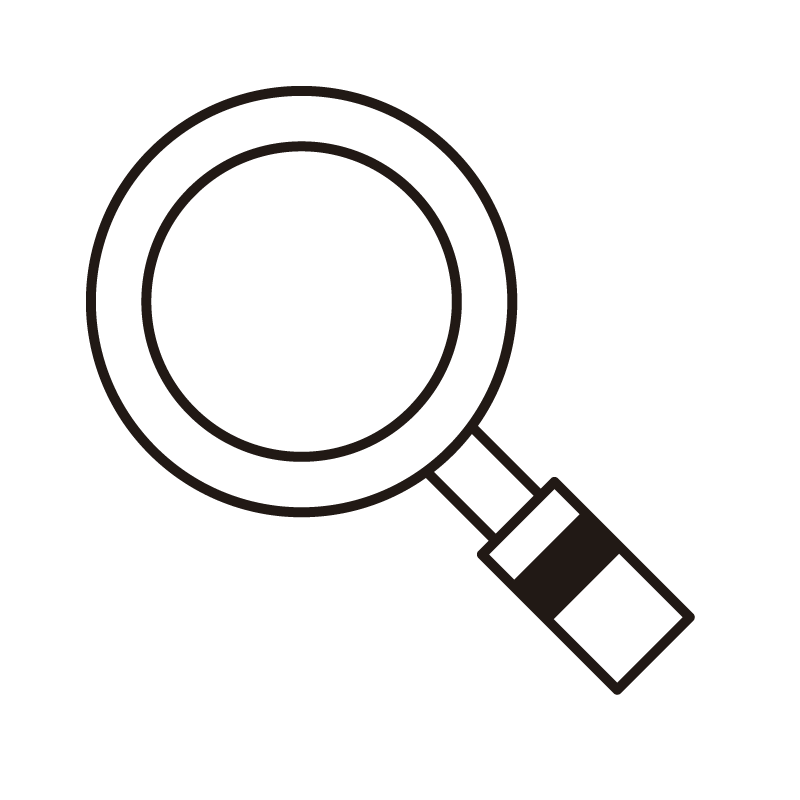
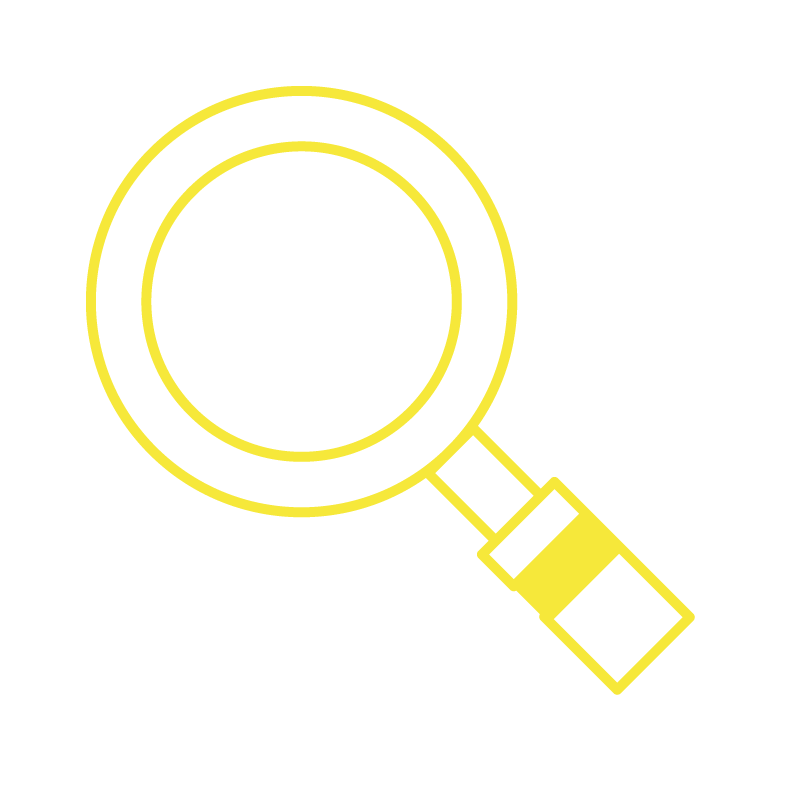
Nuestro Proceso

diff --git a/pages/nuestras-creaciones.html b/pages/nuestras-creaciones.html
@@ -12,7 +12,7 @@
 
 <body>
     <header>
-        <nav class="navbar navbar-expand-lg navbar-dark" style="background-color: rgb(19, 19, 19);">
+        <nav class="navbar navbar-expand-lg navbar-dark">
             <div class="container-fluid">
                 <a class="navbar-brand" href="../index.html">
                     <img src="../images/clara.png" alt="logo de la empresa" width="100">
@@ -51,28 +51,52 @@
     
 <!--portfolio-->
         <span class="cardCreaciones">
-            <div class="card cardCreacion">
-                <img src="../images/tarjetas-ludmi.jpg" class="cardCreacion__img" alt="imagen del proyecto de tarjetas personales">
-                <h3 class="card__title card__contacto--cel">Tarjetas personales</h3>
-                <p class="cardDescription">Lorem ipsum dolor sit, amet consectetur adipisicing elit.</p>
+            <div class="card cardCreacion accordion accordion-flush">
+                <img src="../images/tarjetas-ludmi.jpg" class="cardCreacion__img accordion-item" alt="imagen del proyecto de tarjetas personales">
+                <h3 class="card__title accordion-header" id="flush-headingOne">
+                    <button class="accordion-button collapsed" type="button" data-bs-toggle="collapse" data-bs-target="#flush-collapseOne" aria-expanded="false" aria-controls="flush-collapseOne">
+                    Tarjetas personales
+                    </button>
+                </h3>
+                <div id="flush-collapseOne" class="accordion-collapse collapse" aria-labelledby="flush-headingOne" data-bs-parent="#accordionFlushExample">
+                        <div class="accordion-body">El objetivo de una tarjeta personal es que la gente te recuerde. Con tu tarjeta personal diseñada en Clara-SG, mostrarás a las personas la verdadera esencia de tu emprendimiento o profesión.</div>
+                </div>            
             </div>
 
-            <div class="card cardCreacion">
-                <img src="../images/sorteo.png" class="cardCreacion__img" alt="imagen del proyecto de tarjetas personales">
-                <h3 class="card__title">Placas para redes sociales</h3>
-                <p class="cardDescription">Lorem ipsum dolor sit, amet consectetur adipisicing elit.</p>
+            <div class="card cardCreacion accordion accordion-flush">
+                <img src="../images/sorteo.png" class="cardCreacion__img accordion-item" alt="imagen del proyecto de una placa para redes sociales">
+                <h3 class="card__title accordion-header" id="flush-headingTwo">
+                    <button class="accordion-button collapsed" type="button" data-bs-toggle="collapse" data-bs-target="#flush-collapseTwo" aria-expanded="false" aria-controls="flush-collapseTwo">
+                    Redes sociales
+                    </button>
+                </h3>
+                <div id="flush-collapseTwo" class="accordion-collapse collapse" aria-labelledby="flush-headingTwo" data-bs-parent="#accordionFlushExample">
+                    <div class="accordion-body">El propósito del marketing en redes sociales es construir una marca y aumentar la visibilidad, a través de piezas de contenido y promociones que generen una comunicación con potenciales clientes y con los que ya eligen tu marca, y a la vez que se crea toda una comunidad interactiva.</div>
+                </div>            
             </div>
 
-            <div class="card cardCreacion">
-                <img src="../images/logo-horizontal-chico.jpg" class="cardCreacion__img" alt="imagen del proyecto de tarjetas personales">
-                <h3 class="card__title">Imagen de marca</h3>
-                <p class="cardDescription">Lorem ipsum dolor sit, amet consectetur adipisicing elit.</p>
+            <div class="card cardCreacion accordion accordion-flush">
+                <img src="../images/logo-horizontal-chico.jpg" class="cardCreacion__img accordion-item" alt="imagen del proyecto de cracion de marca">
+                <h3 class="card__title accordion-header" id="flush-headingThree">
+                    <button class="accordion-button collapsed" type="button" data-bs-toggle="collapse" data-bs-target="#flush-collapseThree" aria-expanded="false" aria-controls="flush-collapseThree">
+                        Imagen de marca
+                    </button>
+                </h3>
+                <div id="flush-collapseThree" class="accordion-collapse collapse" aria-labelledby="flush-headingThree" data-bs-parent="#accordionFlushExample">
+                    <div class="accordion-body">Con la imagen de marca transmitimos los valores de la misma al mercado y a los clientes, expresando sus valores y objetivos.</div>
+                </div>            
             </div>
             
-            <div class="card cardCreacion">
-                <img src="../images/fotomontaje.jpeg" class="cardCreacion__img" alt="imagen de fotomontaje">
-                <h3 class="card__title">Fotomontaje</h3>
-                <p class="cardDescription">Lorem ipsum dolor sit, amet consectetur adipisicing elit.</p>
+            <div class="card cardCreacion accordion accordion-flush">
+                <img src="../images/fotomontaje.jpeg" class="cardCreacion__img accordion-item" alt="imagen de fotomontaje">
+                <h3 class="card__title accordion-header" id="flush-headingFour">
+                    <button class="accordion-button collapsed" type="button" data-bs-toggle="collapse" data-bs-target="#flush-collapseFour" aria-expanded="false" aria-controls="flush-collapseFour">
+                        Fotomontaje
+                    </button>
+                </h3>
+                <div id="flush-collapseFour" class="accordion-collapse collapse" aria-labelledby="flush-headingFour" data-bs-parent="#accordionFlushExample">
+                    <div class="accordion-body">Composición fotográfica que resulta de la combinación de fragmentos de diversas fotografías, a veces acompañadas de dibujos, y que se hace generalmente con intención artística o publicitaria.</div>
+                </div>            
             </div>
 
         </span>

diff --git a/pages/quienes-somos.html b/pages/quienes-somos.html
@@ -12,7 +12,7 @@
 
 <body>
     <header>
-        <nav class="navbar navbar-expand-lg navbar-dark" style="background-color: rgb(19, 19, 19);">
+        <nav class="navbar navbar-expand-lg navbar-dark">
             <div class="container-fluid">
                 <a class="navbar-brand" href="../index.html">
                     <img src="../images/clara.png" alt="logo de la empresa" width="100">
@@ -46,7 +46,7 @@
     <main>
         <!-- título principal de la pag web-->
         <section class="parallaxEquipo titulo">
-            <h2><strong>¿Quiénes somos?</strong> </h2>
+            <h2><strong>¿QUIÉNES SOMOS?</strong> </h2>
         </section>
     
         <section class="equipo">
@@ -60,6 +60,82 @@
                 <img src="../images/whatsapp-icono.png" width="120" alt="icono del acceso directo de whatsApp" />
             </a>
         </span>
+
+        <section>
+            <h2 class="testimony__tittleCel mb-4">NUESTRO PROCESO</h2>
+            <span class="proceso mb-5">
+                <div class="cadaProceso">
+                    <img class="cardProceso" src="../images/lupa.png" alt="lupa">
+                    <p>Investigación</p>
+                </div>
+
+                <img src="../images/flecha-dcha.png" class="testider" alt="">
+
+                <div class="cadaProceso">
+                    <img class="cardProceso" src="../images/rayo.png" alt="rayo">
+                    <p>Lluvia de ideas</p>
+                </div>
+
+                <img src="../images/flecha-dcha.png" class="testider" alt="">
+                
+                <div class="cadaProceso">
+                    <img class="cardProceso" src="../images/flecha2.png" alt="tiro al blanco">
+                    <p>Bocetos</p>
+                </div>
+
+                <img src="../images/flecha-dcha.png" class="testider" alt="">
+
+                <div class="cadaProceso">
+                    <img class="cardProceso" src="../images/lapiz2.png" alt="lapiz">
+                    <p>Revisión del proyecto</p>
+                </div>
+
+                <img src="../images/flecha-dcha.png" class="testider" alt="">
+                
+                <div class="cadaProceso">
+                    <img class="cardProceso" src="../images/personas.png" alt="grupo de personas">
+                    <p>Presentación al cliente</p>
+                </div>
+            </span>
+
+
+            <span class="procesoCel mb-5">
+                <div class="cadaProceso">
+                    <img class="cardProceso mx-auto" src="../images/lupa.png" alt="lupa">
+                    <p>Investigación</p>
+                </div>
+
+                <img src="../images/flecha-abajo.png" class="testider" alt="">
+
+                <div class="cadaProceso">
+                    <img class="cardProceso mx-auto" src="../images/rayo.png" alt="rayo">
+                    <p>Lluvia de ideas</p>
+                </div>
+
+                <img src="../images/flecha-abajo.png" class="testider" alt="">
+                
+                <div class="cadaProceso">
+                    <img class="cardProceso mx-auto" src="../images/flecha2.png" alt="tiro al blanco">
+                    <p>Bocetos</p>
+                </div>
+
+                <img src="../images/flecha-abajo.png" class="testider" alt="">
+
+                <div class="cadaProceso">
+                    <img class="cardProceso mx-auto" src="../images/lapiz2.png" alt="lapiz">
+                    <p>Revisión del proyecto</p>
+                </div>
+
+                <img src="../images/flecha-abajo.png" class="testider" alt="">
+                
+                <div class="cadaProceso">
+                    <img class="cardProceso mx-auto" src="../images/personas.png" alt="grupo de personas">
+                    <p>Presentación al cliente</p>
+                </div>
+            </span>
+
+
+        </section>
     </main>
     
     <footer class="backgroundFooter">

diff --git a/css/style.css b/css/style.css
@@ -9,12 +9,18 @@
     src: url(../fonts/opensans/opensans/OpenSans-Regular.ttf);
 }
 
+nav{
+    background-color: #191919;
+}
+
 p {
     margin: 0 auto;
     color: #000;
 }
-.solucionesG__titulo{
+
+.solucionesG__titulo {
     text-decoration: none;
+    color: #f8f5d6;
 }
 
 ul {
@@ -26,6 +32,7 @@ ul {
     margin-bottom: 20px;
     font-size: 16px;
 }
+
 header {
     position: sticky;
     bottom: 0px;
@@ -54,7 +61,7 @@ main {
     padding: 5%;
 }
 
-h2{
+h2 {
     text-align: center;
     color: #050505;
     font-size: 300%;
@@ -120,6 +127,31 @@ body {
     animation-duration: 3s;
     animation-delay: 1s;
 }
+
+.cardProceso {
+    background-color: #f9fbfc;
+    width: 10rem;
+    border-radius: 30px;
+    padding: 15px;
+    margin: 15px 0 15px 0px;
+    display: grid;
+    box-shadow: 1px 1px 1px #2b2b2b;
+}
+
+.proceso {
+    display: flex;
+    flex-direction: row;
+    justify-content: center;
+}
+
+.cadaProceso {
+    text-align: center;
+}
+
+.procesoCel {
+    display: none;
+}
+
 @keyframes aparecer {
     0% {
         opacity: 0;
@@ -171,7 +203,7 @@ body {
     transition: width 2s;
 }
 .card:hover {
-    background-color: #fcfae3;
+    background-color: #fcfbf5;
 }
 
 .cardCreaciones {
@@ -185,6 +217,7 @@ body {
     display: grid;
     place-self: center;
     width: 310px;
+    min-height: 380px;
 }
 .cardCreacion__img {
     width: 250px;
@@ -192,7 +225,7 @@ body {
     transition: all 1s;
 }
 .cardCreacion__img:hover {
-    width: 280px;
+    width: 270px;
 }
 .cardDescription {
     place-self: center;
@@ -381,6 +414,7 @@ body {
     border-radius: 30px;
     box-shadow: 1px 1px 1px #2b2b2b;
 }
+
 @media (max-width:768px) {
     /*header nav {
         display: none;
@@ -394,11 +428,29 @@ body {
     .fondoHome__cel {
         display: flex;
     }
+
+    .animationCel {
+        animation-name: aparecerCel;
+        animation-duration: 3s;
+        animation-delay: 1s;    
+    }
+    @keyframes aparecerCel {
+        0% {
+            opacity: 0;
+        }
+        45% {
+            opacity: 1;
+        }
+        55% {
+            width: 200px;
+        }
+    }
+    
     main section {
         font-size: 70%;
     }
     .testimony__tittle {
-        font-size: 150%;
+        font-size: 200%;
     }
     .cardCreacion {
         margin: 0% 10% 10% 10%;
@@ -421,5 +473,14 @@ body {
     .cardLoqhacemos {
         /* width: 310px; */
         margin-left: 0;
+    }
+    .proceso {
+        display: none;
+    }
+
+    .procesoCel {
+        display: flex;
+        flex-direction: column;
+        font-size: 1.3rem;
     }
 }

diff --git a/index.html b/index.html
@@ -24,9 +24,9 @@
                 <li><a href="../pages/contactanos.html" class="enlacePaginas enlaceTextShadow">¡Contáctanos!</a></li>          
             </ul>
         </nav>-->
-        <nav class="navbar navbar-expand-lg navbar-dark" style="background-color: rgb(19, 19, 19);">
+        <nav class="navbar navbar-expand-lg navbar-dark">
             <div class="container-fluid">
-                    <h5 class="navbar-brand sgNavbar">Soluciones Gráficas</h5>
+                    <h5 class="navbar-brand sgNavbar"> <a href="index.html" class="nav-link solucionesG__titulo">Soluciones Gráficas</a></h5>
                 
                 <button class="navbar-toggler" type="button" data-bs-toggle="collapse" data-bs-target="#navbarNav" aria-controls="navbarNav" aria-expanded="false" aria-label="Toggle navigation">
                     <span class="navbar-toggler-icon"></span>
@@ -34,7 +34,7 @@
                     <div class="collapse navbar-collapse" id="navbarNav">
                         <ul class="navbar-nav ms-auto">
                             <li class="nav-item">
-                                <a class="nav-link active" aria-current="page" href="pages/lo-que-hacemos.html">Lo que hacemos</a>
+                                <a class="nav-link" aria-current="page" href="pages/lo-que-hacemos.html">Lo que hacemos</a>
                             </li>
                             <li class="nav-item">
                                 <a class="nav-link" href="pages/nuestras-creaciones.html">Nuestras creaciones</a>
@@ -57,11 +57,11 @@
     
     <main>
         <div class="fondoHome">
-            <img src="images/clara.png" width="800" class="animation" alt="logo de la empresa">
+            <img src="images/clara-sin-sombra.png" width="800" class="animation" alt="logo de la empresa">
         </div>
 
         <div class="fondoHome__cel">
-            <img src="images/clara.png" height="200" alt="logo de la empresa">
+            <img src="images/clara-sin-sombra.png" width="300" class="animationCel" alt="logo de la empresa">
         </div>
         <!--ícono de whatsapp flotante para acceso directo al chat-->
         <span class="whatsapp">

diff --git a/pages/contactanos.html b/pages/contactanos.html
@@ -25,7 +25,7 @@
                 <li><a href="../pages/contactanos.html" class="enlacePaginas enlaceTextShadow">¡Contáctanos!</a></li>          
             </ul>
         </nav>-->
-        <nav class="navbar navbar-expand-lg navbar-dark" style="background-color: rgb(19, 19, 19);">
+        <nav class="navbar navbar-expand-lg navbar-dark">
             <div class="container-fluid">
                 <a class="navbar-brand" href="../index.html">
                     <img src="../images/clara.png" alt="logo de la empresa" width="100">
@@ -134,7 +134,7 @@
                         </div>
                         <div class="mb-4">
                             <input type="checkbox" name="aceptar" id="aceptar" class="checkBox mb-4"/>
-                            <label for="aceptar">Deseo recibir novedades</label>
+                            <label for="aceptar" class="form-check-label">Deseo recibir novedades</label>
                         </div>
                             </form>
 

diff --git a/pages/lo-que-hacemos.html b/pages/lo-que-hacemos.html
@@ -12,7 +12,7 @@
 
 <body>
     <header>
-        <nav class="navbar navbar-expand-lg navbar-dark" style="background-color: rgb(19, 19, 19);">
+        <nav class="navbar navbar-expand-lg navbar-dark">
             <div class="container-fluid">
                 <a class="navbar-brand" href="../index.html">
                     <img src="../images/clara.png" alt="logo de la empresa" width="100">
